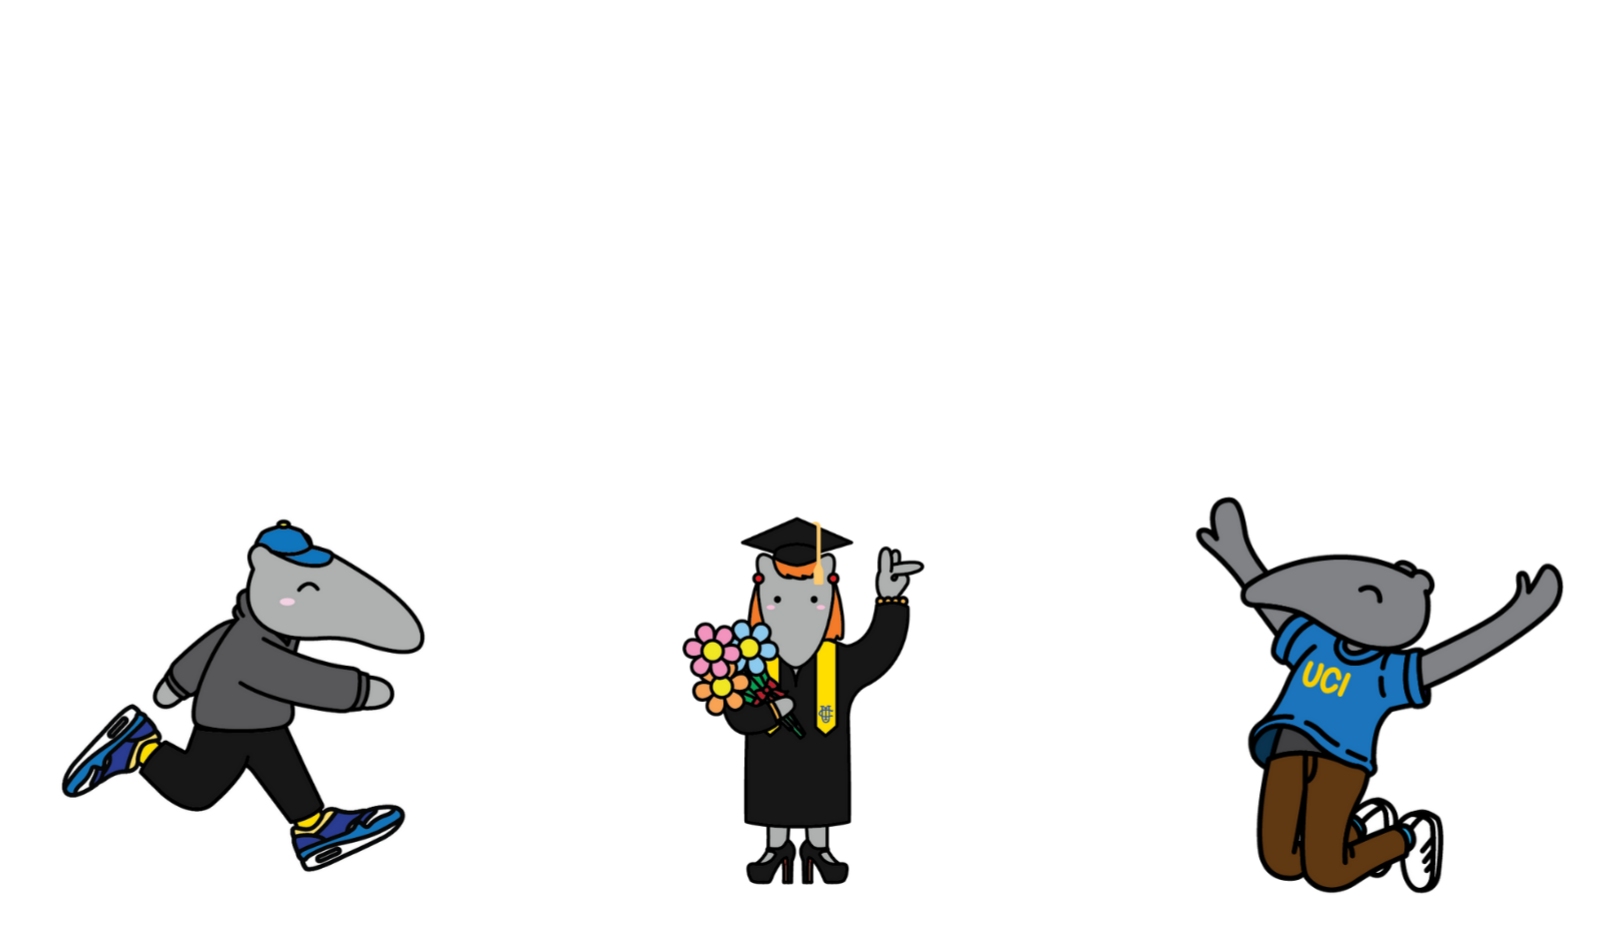
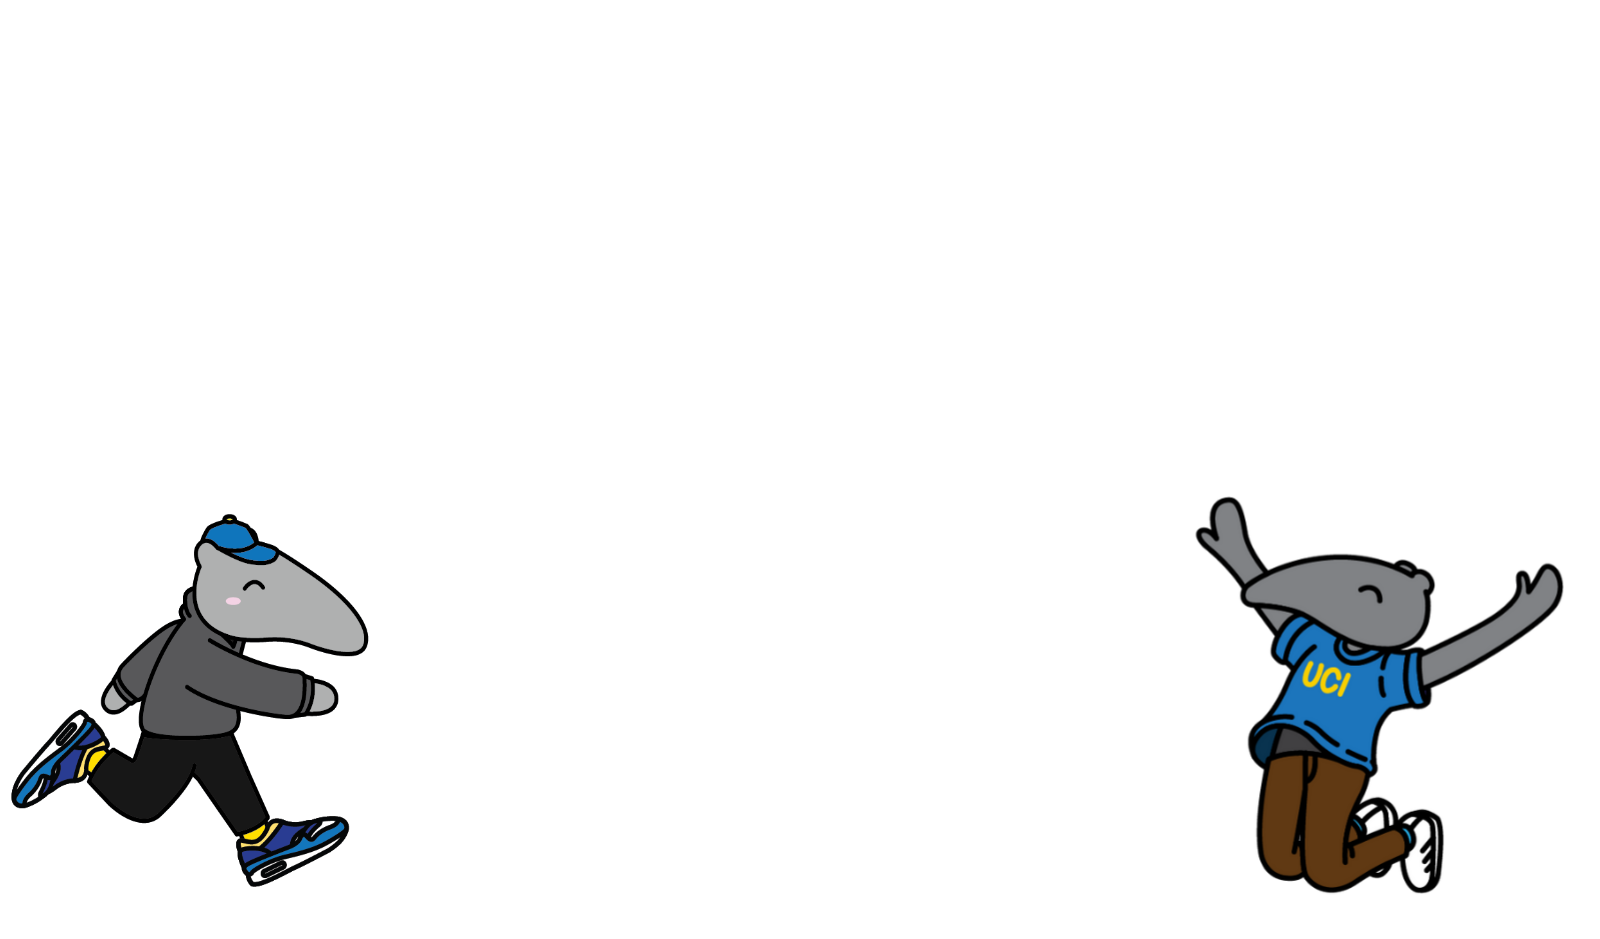
added arm and took away middle anteater

Changed region(s): [[0.0, 0.5559, 0.2812, 0.9574], [0.4062, 0.5559, 0.5938, 0.9574]]

diff --git a/index.html b/index.html
@@ -10,6 +10,9 @@
   <body>
     <div class="s130">
       <form>
+
+	<center> <img src="images/logo.png" width="260" height="175"> </center> <br>
+
         <div class="inner-form">
           <div class="input-field first-wrap">
             <div class="svg-wrapper">
